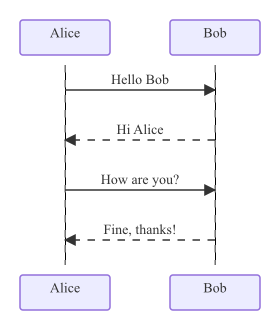
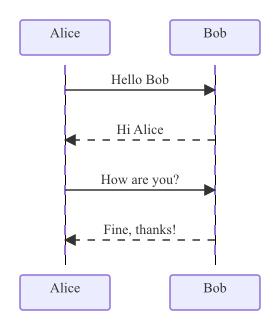
seq V1: lifeline color/weight theme integration (#113)
Change default lifeline stroke from thin gray (#999, 1.5px) to thick
purple (#9370DB, 2px) matching mmdc's --actorLineColor. Add tests for
default theme color and custom theme override.

Changed region(s): [[0.7429, 0.1818, 0.7714, 0.8182], [0.2286, 0.1818, 0.2571, 0.8182]]

diff --git a/pkg/renderer/sequence/renderer_test.go b/pkg/renderer/sequence/renderer_test.go
@@ -90,10 +90,66 @@ func TestRenderLifelines(t *testing.T) {
 	if err != nil {
 		t.Fatalf("Render: %v", err)
 	}
-	// Lifelines are dashed vertical lines — check for stroke-dasharray.
 	raw := string(out)
 	if !strings.Contains(raw, "stroke-dasharray") {
 		t.Error("expected dashed lifeline (stroke-dasharray)")
+	}
+	assertValidSVG(t, out)
+}
+
+func TestRenderLifelineUsesThemeColor(t *testing.T) {
+	d := &diagram.SequenceDiagram{
+		Participants: []diagram.Participant{
+			{ID: "A", Kind: diagram.ParticipantKindParticipant, CreatedAtItem: -1, DestroyedAtItem: -1},
+			{ID: "B", Kind: diagram.ParticipantKindParticipant, CreatedAtItem: -1, DestroyedAtItem: -1},
+		},
+		Items: []diagram.SequenceItem{
+			diagram.NewMessageItem(diagram.Message{
+				From: "A", To: "B", Label: "hello",
+				ArrowType: diagram.ArrowTypeSolid,
+			}),
+		},
+	}
+	out, err := Render(d, nil)
+	if err != nil {
+		t.Fatalf("Render: %v", err)
+	}
+	raw := string(out)
+
+	if !strings.Contains(raw, "stroke:#9370DB") {
+		t.Error("lifeline should use theme color #9370DB")
+	}
+	if !strings.Contains(raw, "stroke-width:2.0") {
+		t.Error("lifeline should use stroke-width:2.0")
+	}
+	assertValidSVG(t, out)
+}
+
+func TestRenderLifelineCustomTheme(t *testing.T) {
+	d := &diagram.SequenceDiagram{
+		Participants: []diagram.Participant{
+			{ID: "A", Kind: diagram.ParticipantKindParticipant, CreatedAtItem: -1, DestroyedAtItem: -1},
+			{ID: "B", Kind: diagram.ParticipantKindParticipant, CreatedAtItem: -1, DestroyedAtItem: -1},
+		},
+		Items: []diagram.SequenceItem{
+			diagram.NewMessageItem(diagram.Message{
+				From: "A", To: "B", Label: "hello",
+				ArrowType: diagram.ArrowTypeSolid,
+			}),
+		},
+	}
+	out, err := Render(d, &Options{
+		Theme: Theme{LifelineStroke: "#00ff00"},
+	})
+	if err != nil {
+		t.Fatalf("Render: %v", err)
+	}
+	raw := string(out)
+	lifelineRe := regexp.MustCompile(`<line[^>]*stroke-dasharray[^>]*>`)
+	for _, m := range lifelineRe.FindAllString(raw, -1) {
+		if !strings.Contains(m, "stroke:#00ff00") {
+			t.Errorf("lifeline should use custom color #00ff00, got: %s", m)
+		}
 	}
 	assertValidSVG(t, out)
 }

diff --git a/pkg/renderer/sequence/theme.go b/pkg/renderer/sequence/theme.go
@@ -9,6 +9,7 @@ const (
 	defaultBoxPadY        = 10.0
 	defaultBoxHeight      = 35.0
 	defaultStrokeWidth    = 1.5
+	defaultLifelineWidth  = 2.0
 	defaultActorHeadR     = 12.0
 	defaultActorBodyH     = 28.0
 )
@@ -36,7 +37,7 @@ func DefaultTheme() Theme {
 		ParticipantFill:   "#ECECFF",
 		ParticipantStroke: "#9370DB",
 		ParticipantText:   "#333",
-		LifelineStroke:    "#999",
+		LifelineStroke:    "#9370DB",
 		MessageStroke:     "#333",
 		MessageText:       "#333",
 		NoteFill:          "#ffffcc",

diff --git a/pkg/renderer/sequence/renderer.go b/pkg/renderer/sequence/renderer.go
@@ -400,7 +400,7 @@ func renderLifelines(d *diagram.SequenceDiagram, lay seqLayout, th Theme, create
 			elems = append(elems, &line{
 				X1: svgFloat(x), Y1: svgFloat(startY),
 				X2: svgFloat(x), Y2: svgFloat(endY),
-				Style: fmt.Sprintf("stroke:%s;stroke-width:%.1f;stroke-dasharray:5,5", th.LifelineStroke, defaultStrokeWidth),
+				Style: fmt.Sprintf("stroke:%s;stroke-width:%.1f;stroke-dasharray:5,5", th.LifelineStroke, defaultLifelineWidth),
 			})
 		}
 	}
